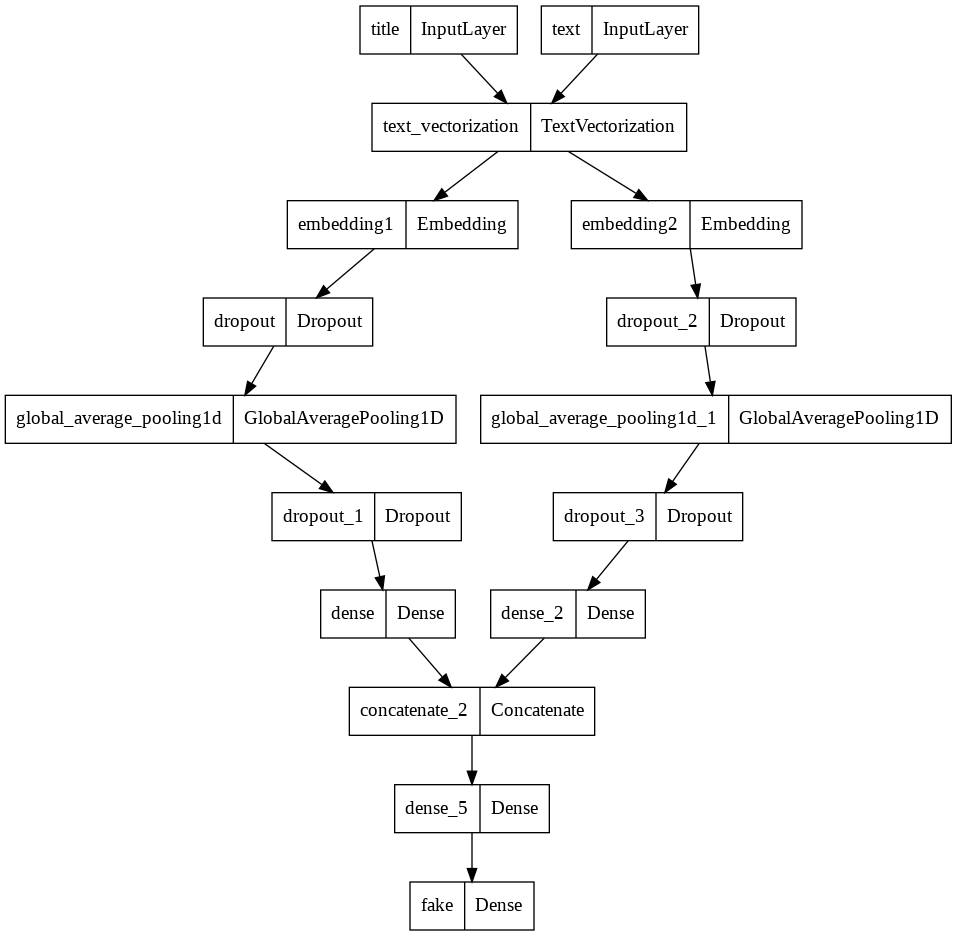
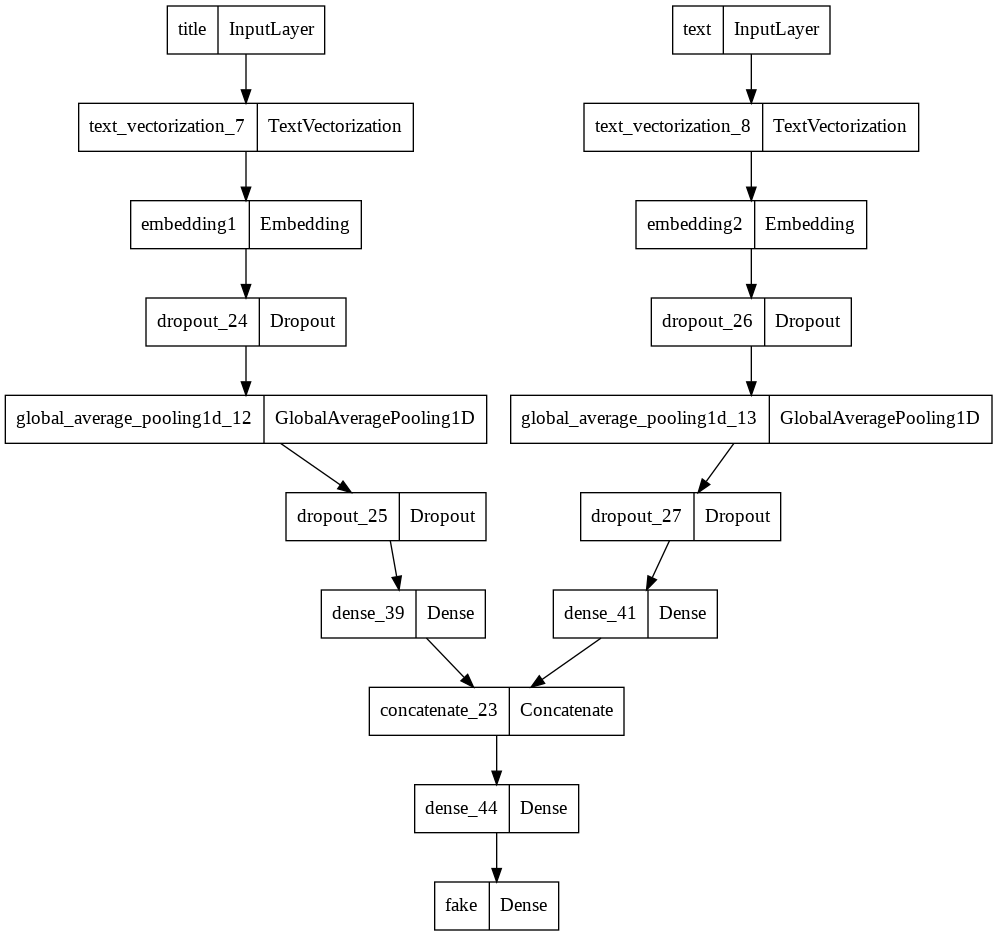
adf

diff --git a/_posts/2022-05-17-PIC16B-HW4.md b/_posts/2022-05-17-PIC16B-HW4.md
@@ -118,7 +118,14 @@ text_vectorize_layer.adapt(train_data_set.map(lambda x, y: x["text"]))
 
 <h1>§3. Create Models</h1>
 
+<h2>When detecting fake news, is it most effective to focus on only the title of the article, the full text of the article, or both?</h2>
 
+To address this question, create three (3) TensorFlow models.
+1. In the first model, use only the article title as an input.
+2. In the second model, use only the article text as an input.
+3. In the third model, use both the article title and the article text as input.
+
+First, import some livraries I use and make Input object for "title" and "text".
 
 ```python
 from tensorflow.keras import layers
@@ -136,26 +143,35 @@ text_input = keras.Input(
     dtype="string")
 ```
 
+Using the Functional API and implement layers.
+
+First put in the vectorization layer, then rebuild the string word into a vector representation with Embedding. Dropout prevents over-fitting and compresses the information received from Embedding with GrobalAveragePooling1D. Then, Dropout is performed again, and finally Dense is performed.
+
 ```python
 title_features = title_vectorize_layer(title_input)
 title_features = layers.Embedding(size_vocabulary, output_dim = 3, name="embedding1")(title_features)
 title_features = layers.Dropout(0.2)(title_features)
 title_features = layers.GlobalAveragePooling1D()(title_features)
 title_features = layers.Dropout(0.2)(title_features)
-title_features = layers.Dense(32, activation='relu')(title_features)
+title_features = layers.Dense(1, activation='relu')(title_features)
 
 text_features = layers.Dense(32, activation='relu')(text_input)
-text_features = title_vectorize_layer(text_input)
+text_features = text_vectorize_layer(text_input)
 text_features = layers.Embedding(size_vocabulary, output_dim = 3, name="embedding2")(text_features)
 text_features = layers.Dropout(0.2)(text_features)
 text_features = layers.GlobalAveragePooling1D()(text_features)
 text_features = layers.Dropout(0.2)(text_features)
 text_features = layers.Dense(32, activation='relu')(text_features)
 ```
+
+Get number of fake class.
+
 ```python
 num_fakes = len(train_data["fake"].unique())
 num_fakes
 ```
+
+Prepare for 3 models explained above.
 
 ```python
 main1 = layers.concatenate([title_features], axis = 1)
@@ -170,6 +186,11 @@ main3 = layers.concatenate([title_features, text_features], axis = 1)
 main3 = layers.Dense(32, activation='relu')(main3)
 output3 = layers.Dense(num_fakes, name="fake")(main3) 
 ```
+
+Create 3 models: 
+1. use only the article title as an input.
+2. use only the article text as an input.
+3. use both the article title and the article text as input.
 
 ```python
 model1 = keras.Model(
@@ -187,20 +208,29 @@ model3 = keras.Model(
     outputs = output3
 )
 ```
+<h2>visualize your models with this code:</h2>
 
 ```python
 from tensorflow.keras import utils
 utils.plot_model(model1)
 ```
-![image-example.png]({{ site.baseurl }}/images/pic16B-HW4-pic2.png) 
-``python
+![image-example.png]({{ site.baseurl }}/images/pic16B-HW4-pic2.png){: height="500px" width="auto"}
+
+Over-fitting has occurred and the data is not helpful at all.
+
+```python
 utils.plot_model(model2)
 ```
-![image-example.png]({{ site.baseurl }}/images/pic16B-HW4-pic3.png) 
+![image-example.png]({{ site.baseurl }}/images/pic16B-HW4-pic3.png){: height="500px" width="auto"}
+
+
 ```python
 utils.plot_model(model3)
 ```
-![image-example.png]({{ site.baseurl }}/images/pic16B-HW4-pic4.png) 
+![image-example.png]({{ site.baseurl }}/images/pic16B-HW4-pic4.png){: height="500px" width="auto"}
+
+Compile models
+
 ```python
 model1.compile(optimizer="adam",
               loss = losses.SparseCategoricalCrossentropy(from_logits=True),
@@ -215,6 +245,8 @@ model3.compile(optimizer="adam",
               metrics=["accuracy"])
 ```
 
+Training models, 
+
 ```python
 history = model1.fit(train_data_set, 
                     validation_data=val_data_set,
@@ -222,12 +254,17 @@ history = model1.fit(train_data_set,
                     verbose = False)
 ```
 
+Visualize the resulting graph
+
 ```python
 from matplotlib import pyplot as plt
 plt.plot(history.history["accuracy"])
 plt.plot(history.history["val_accuracy"])
 ```
 ![image-example.png]({{ site.baseurl }}/images/pic16B-HW4-pic5.png) 
+
+Over-fitting has occurred and the data is not helpful at all.
+
 ```python
 history2 = model2.fit(train_data_set, 
                     validation_data=val_data_set,
@@ -241,6 +278,8 @@ plt.plot(history2.history["val_accuracy"])
 ```
 ![image-example.png]({{ site.baseurl }}/images/pic16B-HW4-pic6.png) 
 
+Looks really good.
+
 ```python
 history3 = model3.fit(train_data_set, 
                     validation_data=val_data_set,
@@ -253,6 +292,14 @@ plt.plot(history3.history["accuracy"])
 plt.plot(history3.history["val_accuracy"])
 ```
 ![image-example.png]({{ site.baseurl }}/images/pic16B-HW4-pic7.png) 
+
+It is worse than the result of model2
+
+<h2>Therefore, model 2; only using text data, to classificate.</h2>
+
+
+<h1>§4. Model Evaluation</h1>
+
 
 ```python
 test_url = "https://github.com/PhilChodrow/PIC16b/blob/master/datasets/fake_news_test.csv?raw=true"
